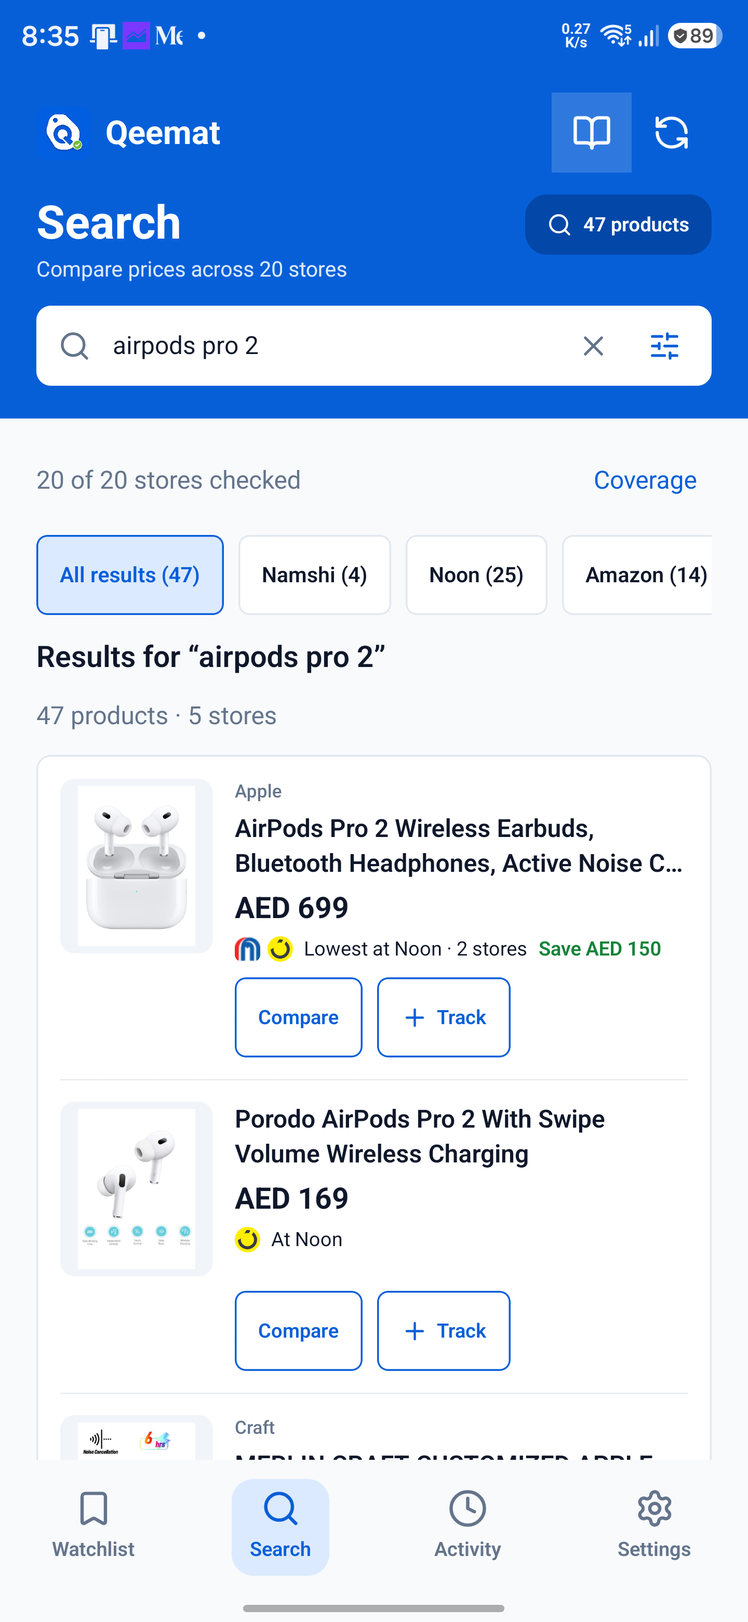
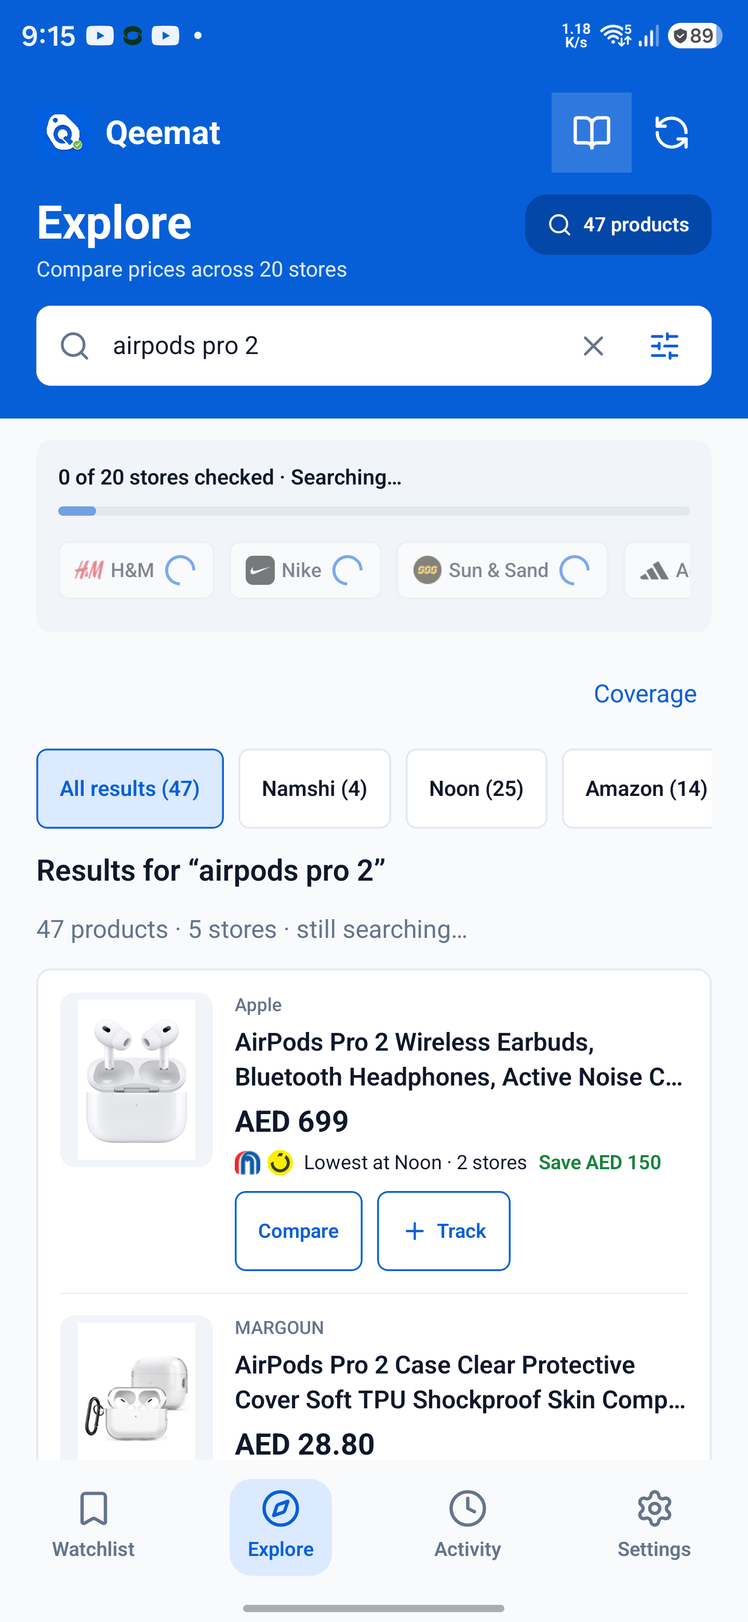
docs: record the Explore experience iteration and evidence

diff --git a/docs/current-state.md b/docs/current-state.md
@@ -47,18 +47,18 @@ The site registry is `src/domain/sites.ts`. It controls hostnames, enabled statu
 - Long-press selection opens a compact floating action dock. Selected products can be moved to a folder, paused/resumed, archived/restored, or deleted in bulk.
 - Product cards show a site icon, local folder when present, price, status, and the most recent price-change direction. OOS cards are dimmed and show an amber out-of-stock badge.
 - The Activity tab is newest-first and groups events into stable local calendar-day sections (`Today`, `Yesterday`, then e.g. `Mon, 10 Nov`) with a per-day change count. Each day is one flat card of compact rows: product thumbnail and title, new price first with the previous price struck through, an explicit delta badge (for example `+AED 39` or `−AED 250`), then retailer · source · time as muted metadata. Price rises render red and drops green across the app. Out-of-stock and back-in-stock transitions keep their state text, first observations read “Started tracking” with a `New` badge, existing products open their detail screen, and deleted products render a non-tappable “Product removed” row. Day headers are accessibility headings and each row has a descriptive accessibility label.
-- `Watchlist` is the opening tab; `Search` is the cross-store comparison tab. The Search feed is ordered by a watchlist-derived taste profile built from active tracked products: inferred categories, brands, distinctive title keywords and typical price bands. Each matching grouped row shows one honest reason such as “Because you track running shoes”, “More from Nike” or “You track this at Noon”; with no watchlist signal the feed keeps its existing launch rotation. The dead personalization quiz UI is removed; saved discovery preferences now only provide dismissal state. Users can browse departments, stores and store categories, filter by department/store/brand/maximum price in a bottom sheet, and see source coverage. The grouped feed shows 12 rows initially and grows by 12 on Show more.
-- Retailer listings of the same product are clubbed locally into one item using conservative title inference: brand must match (or be a token-prefix extension such as adidas / adidas originals), the canonical product type must match, numeric model/pack tokens must be exactly equal, and the remaining signature tokens must be strongly similar. There is no cross-retailer product id, so different model years or colourways can still be missed or (less often) clubbed. Each retailer contributes one offer. A group claims a “Lowest at X” price only when at least two offers are comparable: a defined single price, in stock, same currency and same pack/weight basis. Out-of-stock and “From” range offers stay visible but cannot win the comparison. The compare sheet shows each retailer's own title, price, availability, previous observed price and check age, plus the saving between comparable offers. A group-level previous best price is only shown when every compared offer had a previous observation.
-- When a grouped item matches an active tracked product (exact URL first, then conservative brand+signature matching), the row and compare sheet annotate it with “You track this at <store>” and can open that tracker. The annotation is display-only; tracking a source still verifies the product page and variant before saving.
-- Search keeps its screen state while switching between tabs and also after opening a product or the Add flow, because the tab stack stays mounted. Its default feed rotates the first group of products only when no watchlist signal can personalise it; search results and explicitly filtered views keep their existing query/filter order. Listing cards show a previous price comparison only when the price changes, and missing or failed listing images fall back to a neutral placeholder.
+- `Watchlist` is the opening tab; `Explore` is the cross-store comparison tab (route id `opportunities`). The Explore feed is ordered by a watchlist-derived taste profile built from active tracked products: inferred categories, brands, distinctive title keywords and typical price bands. Each matching grouped row shows one honest reason such as “Because you track running shoes”, “More from Nike” or “You track this at Noon”; with no watchlist signal the feed keeps its existing launch rotation. Items already on the watchlist are hidden from Explore unless a different retailer offers a genuinely cheaper comparable price, in which case the row shows the saving against the tracked price. The dead personalization quiz UI is removed; saved discovery preferences now only provide dismissal state. Users can browse departments, stores and store categories, filter by department/store/brand/maximum price in a bottom sheet, and see source coverage. The feed loads 12 grouped rows initially and continues automatically near the bottom; there are no Show more/Load more buttons. Visited department/store scopes are cached in memory for 24 hours, matching the retailer cache, so switching back to a previously opened department is immediate.
+- Retailer listings of the same product are clubbed locally into one item using conservative title inference: brand must match (or be a token-prefix extension such as adidas / adidas originals), the canonical product type must match where stated, numeric model numbers must match, capacity/pack tokens must be exactly equal, and alphanumeric model codes may match by containment for retailer SKU suffixes. There is no cross-retailer product id, so different model years or colourways can still be missed or (less often) clubbed. Each retailer contributes one offer. A group claims a “Lowest at X” price only when at least two offers are comparable: a defined single price, in stock, same currency and same pack/weight basis. Out-of-stock and “From” range offers stay visible but cannot win the comparison. The compare sheet lists stores lowest price first and shows each retailer's own title, price, availability, previous observed price and check age, plus the saving between comparable offers. A group-level previous best price is only shown when every compared offer had a previous observation.
+- When a grouped item matches an active tracked product (exact URL first, then conservative brand+signature matching), the feed only keeps it if another retailer is cheaper; the row then shows “On your watchlist” and the saving against the tracked price, and the compare sheet shows the tracker price and saving. In search results the tracked annotation is always shown because the search was explicit. The annotation is display-only; tracking a source still verifies the product page and variant before saving.
+- Explore keeps its screen state while switching between tabs and also after opening a product or the Add flow, because the tab stack stays mounted. Its default feed rotates the first group of products only when no watchlist signal can personalise it; search results and explicitly filtered views keep their query/filter order. Search results are re-ordered within each textual match grade so items available from more retailers rise toward the top, while exact named-product matches stay above weaker matches and compatible accessories are never promoted by store count. Reaching the bottom continues automatically: already-fetched groups are revealed first, then the next retailer page/collection batch is fetched, with a loading row instead of a button. Listing cards show a previous price comparison only when the price changes, and missing or failed listing images fall back to a neutral placeholder.
 - Tracked products retain available retailer-provided category paths, product types and selected attributes separately from shopper-selected categories. Product details show the captured information; existing products acquire it on their next successful check. Fields vary by page and retailer, and an omitted field does not erase previously captured metadata. See the [product metadata source review](product-metadata-audit.md) for retailer-specific evidence and gaps.
-- The department browser exposes 4,517 mapped listings across all 19 retailers. It offers searchable Departments and Stores views, compact department groups and store-specific categories; source URLs, breadcrumbs and fetch status are available under Source details. Selecting an interest, retailer or listing updates the same feed and fetches matching pages. An initial batch requests at most 24 listings; Load more listings adds another batch. Show more reveals another 12 already-fetched grouped rows. Each fetched page still has a 100-product extraction ceiling and retailer pagination is not automatic.
+- The department browser exposes 4,517 mapped listings across all 19 retailers. It offers searchable Departments and Stores views, compact department groups and store-specific categories; source URLs, breadcrumbs and fetch status are available under Source details. Selecting an interest, retailer or listing updates the same feed and fetches matching pages. An initial batch requests at most 24 listings and the Explore feed reveals 12 grouped rows at a time; reaching the bottom continues automatically with the next already-fetched rows, then the next collection batch. Each fetched page still has a 100-product extraction ceiling and retailer pagination is not automatic.
 - Source mapping is broader than validated extraction. The expansion's desktop sample initially extracted 47/72 pages; subsequent parser repairs recovered Amazon book and baby cards. BFL rendered products and size choices now parse from browser markup; full physical-Android verification is deferred by the user until the final pass. See the [category audit](discovery-category-audit.md) for per-retailer evidence and limits. Earlier Android results in [source URLs and limits](discovery-sources.md) refer to the previous selected collections.
-- Discovery caches listings for 24 hours and retries failed sources after 24 hours or an explicit refresh. Refresh applies to the current scope, not every mapped listing. Fetched listings keep up to 30 local observations each; listings that disappear from a source are not individually checked. Cross-retailer grouped prices only compare offers with the same currency and pack/weight basis; detail observations require matching listing identity, currency, price basis and range status. Product previews show recent listing history separately from variant-specific watchlist snapshots. A separate Android WorkManager job rotates through small batches of previously discovered collection and search sources approximately every six hours when network and system conditions permit. Carrefour weighted groceries normalize default-weight prices to AED/kg; final weight may affect checkout totals. A changed pack size or price basis preserves tracker history and records a failed check rather than sending a misleading price alert.
-- Search store chips appear only for retailers with visible grouped matches and count grouped products, not listings. A store chip resets to all results if its store loses its last match during refresh or dismissal. The Search filter sheet offers departments, stores, brands and a maximum price; active filters are summarised above the feed and can be cleared. All departments opens the full interest, retailer and listing browser. Fresh food remains separate from pantry, beverages and frozen food. Refresh and source coverage live in the blue Search banner. Saved quiz interests and budgets no longer filter the feed or search.
-- Cancelled discovery loads do not create cached failures. Search and discovery keep separate display limits so clearing search returns to the expanded feed and its scroll position. Dismissing a grouped product records feedback for every offer's listing identity, so it stays hidden regardless of the source shown; dismissal feedback for Decathlon and Salomon keeps its shared product-path identity across search and collection listings, and older numeric feedback is reconciled when its corresponding cached product is available.
+- Discovery caches listings for 24 hours and retries failed sources after 24 hours or an explicit refresh. Refresh applies to the current scope, not every mapped listing. The app also keeps visited department/store scopes in memory for 24 hours, so returning to a previously opened scope is immediate without another load. Fetched listings keep up to 30 local observations each; listings that disappear from a source are not individually checked. Cross-retailer grouped prices only compare offers with the same currency and pack/weight basis; detail observations require matching listing identity, currency, price basis and range status. Product previews show recent listing history separately from variant-specific watchlist snapshots. A separate Android WorkManager job rotates through small batches of previously discovered collection and search sources approximately every six hours when network and system conditions permit. Carrefour weighted groceries normalize default-weight prices to AED/kg; final weight may affect checkout totals. A changed pack size or price basis preserves tracker history and records a failed check rather than sending a misleading price alert.
+- Explore store chips appear only for retailers with visible grouped matches and count grouped products, not listings. A store chip resets to all results if its store loses its last match during refresh or dismissal. The Explore filter sheet offers departments, stores, brands and a maximum price; active filters are summarised above the feed and can be cleared. All departments opens the full interest, retailer and listing browser. Fresh food remains separate from pantry, beverages and frozen food. Refresh and source coverage live in the blue Explore banner. Saved quiz interests and budgets no longer filter the feed or search.
+- Cancelled discovery loads do not create cached failures. Explore and search results keep separate display limits so clearing a search returns to the expanded feed and its scroll position. Dismissing a grouped product records feedback for every offer's listing identity, so it stays hidden regardless of the source shown; dismissal feedback for Decathlon and Salomon keeps its shared product-path identity across search and collection listings, and older numeric feedback is reconciled when its corresponding cached product is available.
 - Track price verifies the product page, saves existing defaults, and offers target settings afterward. Size/colour selection uses a sheet over the feed and preserves the exact source variant; existing trackers open their details. Secondary product actions live in the product-details modal and the cross-store compare sheet.
-- Product-name search runs in the same Search feed across 20 storefronts (27 weighted source requests); Sharaf DG is excluded until its search grid can be verified. Searches submit explicitly, ignore quiz interests/budgets, stream matching results, expose per-store status and retain cached matches on failures. Ounass and Level Shoes search women, men and kids separately. Query/model matching removes unrelated fallbacks and ranks named products ahead of compatible accessories across retailers; Amazon search excludes advertising cards. Results are then clubbed across stores and the heading counts grouped products and retailers. Clearing search restores the feed, its filters and scroll position. Up to eight queries are cached locally with a 15-minute reuse window. Pagination follows verified source cursors where available; several providers currently supply only their first response. The existing search smoke test on Samsung SM-S928B (28 October) checked 18 stores and showed 196 listing matches across nine retailers; grouped counts and cross-store comparison are validated separately. This is not exhaustive per-source, offline or tracking/variant QA. See [search evidence and limits](discovery-search-feasibility.md).
+- Product-name search runs in the Explore tab across 20 storefronts (27 weighted source requests); Sharaf DG is excluded until its search grid can be verified. Searches submit explicitly, ignore quiz interests/budgets, stream matching results, show an animated store-checking progress card, expose per-store coverage and retain cached matches on failures. Cached matches stay visible while stores revalidate instead of briefly showing zero. Ounass and Level Shoes search women, men and kids separately. Query/model matching removes unrelated fallbacks and ranks named products ahead of compatible accessories across retailers; results are then clubbed across stores, promoted within the same textual match grade when more retailers carry the item, and the heading counts grouped products and retailers. Reaching the bottom loads the next search page automatically. Clearing search restores the feed, its filters and scroll position. Up to eight queries are cached locally with a 15-minute reuse window. Pagination follows verified source cursors where available; several providers currently supply only their first response. The existing search smoke test on Samsung SM-S928B (28 October) checked 18 stores and showed 196 listing matches across nine retailers; grouped counts and cross-store comparison are validated separately. This is not exhaustive per-source, offline or tracking/variant QA. See [search evidence and limits](discovery-search-feasibility.md).
 
 ### Add flow and product detail
 
@@ -129,10 +129,12 @@ WorkManager is best effort. Battery saver, device-vendor restrictions, connectiv
 - `src/domain/parser.ts` - fetch and site parsers.
 - `src/domain/sites.ts` - site registry and URL cleaning.
 - `src/domain/checker.ts` - check orchestration and alert rules.
-- `src/components/` - reusable UI, including `AppText`, `AppTextInput`, `Surface`, `ProductCard`, `SearchProductRow`, `SearchCompareSheet`, `SearchFilterSheet`, and `SiteIcon`.
+- `src/components/` - reusable UI, including `AppText`, `AppTextInput`, `Surface`, `ProductCard`, `SearchProductRow`, `SearchCompareSheet`, `SearchFilterSheet`, `SearchProgress`, and `SiteIcon`.
 - `src/domain/productTokens.ts` - shared listing title normalizer for grouping and watchlist relevance.
 - `src/domain/discoveryGroups.ts` - conservative cross-retailer grouping, comparable best offer, price spread and tracked-product matching.
 - `src/domain/discoveryRanking.ts` - watchlist taste profile, relevance reasons and diversity-aware feed ranking.
+- `src/domain/discoverySearchRanking.ts` - multi-source promotion within textual match grades for search results.
+- `src/domain/discoveryFeed.ts` - hide watchlist copies from Explore unless another retailer is cheaper.
 - `src/theme/layout.ts` - compact layout helper.
 - `android/app/src/main/java/com/qeemat/` - Android WorkManager, notifications, and WebView modules.
 - `docs/bfl-integration.md` - BFL's current rendered parser and historical fetch limitations.
@@ -157,5 +159,5 @@ For a terminal Android build, use JDK 17+ and make `adb` available from Android 
 - Price-drop thresholds and back-in-stock alerts are set per tracker.
 - Folder-based organisation, watchlist filtering/sorting, archive, and compact bulk actions support larger watchlists.
 - Product detail includes local price insights and an interactive price-history chart.
-- The local-only Search tab derives a taste profile from active watchlist products, clubs conservative cross-retailer matches into one compared item with a best source, shows honest relevance and tracked-product annotations, and lets users track any source without pasting a URL. Search results use the same grouped comparison rows. See [the Search tab review](search-tab-review.md).
+- The local-only Explore tab derives a taste profile from active watchlist products, clubs conservative cross-retailer matches into one compared item with a best source, hides watchlist copies unless another retailer is cheaper, shows honest relevance/tracked annotations, and lets users track any source without pasting a URL. Search results use the same grouped comparison rows with multi-source promotion, an animated store-checking progress card while stores respond, and automatic continuation at the bottom. See [the Search tab review](search-tab-review.md).
 - Salomon GCC and The Deal extend retailer support; The Deal saves only a response-verified color/size combination.

diff --git a/DESIGN.md b/DESIGN.md
@@ -99,7 +99,7 @@ Page background is `colors.background` (#F8FAFC); inline cards are flat white (`
 
 - **Shipped:** flat Watchlist rows, Settings cards, product-detail insight cards, empty-state cards, the Add-product preview card and the onboarding card; overlay sheets and the floating bulk action bar keep the `shadow` token for genuine layering.
 - **Shipped (14 November 2026):** `Surface` in `src/components/Surface.tsx` provides the shared flat-surface role — `card` (white, 1px border), `muted` (surfaceMuted inset), `accent` (blueSoft) and `plain`, with token-based padding and radius. Search discovery/product cards, the discovery setup/empty cards, Watchlist/Activity empty states and product-detail insight cards render through it. Remaining local card styles visually match the role and can migrate without changing their treatment.
-- **Shipped (14 November 2026, Search redesign):** the Search tab now uses the Watchlist banner/row language: a blue banner with the Qeemat lockup, product-count pill, permanent cross-store search field and coverage/refresh actions; a compact department rail; flat grouped-product rows with the shared card border rhythm; a compare sheet built from `Surface` cards; and a bottom filter sheet matching the Watchlist controls sheet.
+- **Shipped (14 November 2026, Explore redesign):** the Explore tab (formerly Search) now uses the Watchlist banner/row language: a blue banner with the Qeemat lockup, product-count/searching pill, permanent cross-store search field and coverage/refresh actions; a compact department rail; flat grouped-product rows with the shared card border rhythm; an animated store-checking progress card while a search runs; a compare sheet built from `Surface` cards with store offers listed lowest price first; and a bottom filter sheet matching the Watchlist controls sheet. The feed and results continue automatically near the bottom; there are no separate Show more/Load more buttons.
 - **Intended:** no further inline shadows; future elevated elements should be limited to floating layers.
 
 ## Actions
@@ -138,8 +138,8 @@ Treat check freshness, price direction, availability and failure as separate sig
 - **Tracked-product cards:** `ProductCard` presents the product, retailer, selected variant, current or last-known price, price change and check state where available. **Shipped:** compact, flat divided rows without the shared shadow; the change badge reflects the most recent actual price change and keeps showing through later unchanged checks (its accessibility label includes when the change happened). Improve density without hiding variant or failure context.
 - **Floating add button:** **Shipped:** Watchlist uses a circular add button floating over the list (`12aaa66`). The user explicitly chose it over a separate white dock; it can cover list content, and that overlap is an accepted tradeoff, not a defect to fix by restoring a dock. Keep enough bottom scroll padding for the final product to be scrolled clear.
 - **Navigation:** the app has a manual Android tab and route stack. Preserve established navigation and Android back behavior.
-- **Search cards:** listing cards serve comparison, while Watchlist cards serve monitoring. **Shipped (14 November 2026):** Search is a cross-store comparison surface. A watchlist-derived taste profile (inferred categories, brands, title keywords and price bands) orders the feed and each match shows one honest reason; the dead personalization quiz is removed. Retailer listings are clubbed into one item only when brand, product type, numeric model/pack tokens and a distinctive title signature match. A grouped row shows the lowest comparable price, price direction, store icons, the number of stores and the saving, with compact Compare/Track actions. The compare sheet lists each retailer's own title and price, excludes out-of-stock and "From" range offers from the lowest-price claim, and only compares same-currency, same-price-basis offers. Search results use the same grouped rows and count products and stores instead of listings. A fuller Search hierarchy pass is no longer open.
-- **Task-first flows:** **Shipped (13 November 2026):** Add keeps **Find product** directly after the URL field and collapses the supported-store list behind a disclosure; Settings keeps notifications, battery and background time first and collapses run diagnostics and the supported-store list; tracking settings exposes a per-product **Active** switch, and the tab stack stays mounted so Watchlist and Search keep their state after opening a product or the Add flow.
+- **Explore cards:** listing cards serve comparison, while Watchlist cards serve monitoring. **Shipped (14 November 2026):** Explore is a cross-store comparison surface. A watchlist-derived taste profile (inferred categories, brands, title keywords and price bands) orders the feed and each match shows one honest reason; the dead personalization quiz is removed. Items already on the watchlist are hidden unless another retailer is cheaper, and the row then shows the saving against the tracked price. Retailer listings are clubbed into one item only when brand, product type, numeric model/pack tokens and a distinctive title signature match. A grouped row shows the lowest comparable price, price direction, store icons, the number of stores and the saving, with compact Compare/Track actions. The compare sheet lists each retailer's own title and price lowest first, excludes out-of-stock and "From" range offers from the lowest-price claim, and only compares same-currency, same-price-basis offers. Search results use the same grouped rows, count products and stores instead of listings, promote multi-store items within the same textual match grade, and show an animated per-store progress card while stores respond. Visit-scoped listings are cached so returning to a department is immediate. A fuller Explore hierarchy pass is no longer open.
+- **Task-first flows:** **Shipped (13 November 2026):** Add keeps **Find product** directly after the URL field and collapses the supported-store list behind a disclosure; Settings keeps notifications, battery and background time first and collapses run diagnostics and the supported-store list; tracking settings exposes a per-product **Active** switch, and the tab stack stays mounted so Watchlist and Explore keep their state after opening a product or the Add flow.
 - **Product detail:** **Shipped (14 November 2026):** matches the Watchlist language — a blue banner with back/copy/settings actions, then a compact summary card (image, 2-line title, price with direction badge, retailer, variant/folder and check status). Price insights are one flat card with divided Lowest/Highest/Average rows; **About this item** is collapsed behind a summary disclosure; price snapshots show the three most recent groups with **Show all**, identical consecutive failures collapse behind a count, the chart plots only actual price-change points, marks the high and low with dashed guide lines and on-chart high/mid/low price labels, and supports horizontal drag-to-scrub selection; detail also has separate Copy link and native Share actions. Snapshots color a lower price green and a higher price red. Further chart hierarchy refinement is **intended**.
 
 ## Accessibility

diff --git a/docs/search-tab-review.md b/docs/search-tab-review.md
@@ -161,3 +161,17 @@ A bottom sheet matching the Watchlist **Filter & sort** interaction: departments
 - Tracked-product matching is heuristic unless the exact URL is present; the annotation is a convenience, not a price guarantee.
 - Large catalogues (hundreds of listings) make grouping and ranking CPU work on device; the grouping is bucketed and deterministic, but the first load can be slower with a large cached catalogue.
 - Amazon search cards frequently omit the brand field even when the title starts with it. The grouping now infers a leading brand conservatively, but cards that neither expose a brand nor lead with one remain ungrouped.
+
+## 9. Follow-up iteration: Explore experience (14 November 2026)
+
+After the first device review the tab was renamed **Explore** (bottom tab, screen heading and docs) and the following gaps raised in the next review were addressed:
+
+- **First-search feedback.** A first search no longer shows `0 results` while stores respond. The banner shows a spinner and “Searching…”, the results area says “Checking 20 stores. Matches appear here as each store responds.”, and an animated `SearchProgress` card shows a progress bar plus per-store status pills (checking, ready with count, empty, unavailable). Cached matches stay visible while stores revalidate.
+- **Multi-source promotion.** Search groups are ranked within each textual match grade so items available from more retailers rise toward the top; exact named-product matches stay above weaker matches, and accessories (cases, tips, insoles) never receive the multi-store boost unless the shopper searched for the accessory.
+- **Automatic continuation.** The separate Show more and Load more search/listings buttons were removed. Both the Explore feed and search results continue automatically near the bottom: already-fetched rows are revealed first, then the next search page or retailer collection batch is requested. A compact loading row replaces the buttons.
+- **Watchlist duplicates.** A grouped item already matched to an active tracker is hidden from Explore unless a different retailer is cheaper. When it is cheaper, the row shows the saving against the tracked price; the compare sheet also shows the tracked price and saving.
+- **Price-sorted compare sheet.** Store offers are listed lowest price first, with a “Lowest price first” caption; the best comparable offer remains highlighted. The tracked-price saving is shown above the offer list.
+- **Faster department switching.** Visited department/store scopes are cached in memory for 24 hours. Returning to a previously opened department uses the cached products immediately, and narrow department changes do not refetch unless the scope is new. A scope change now shows a loading state instead of a transient “0 products” empty state.
+- **Explore naming.** The tab, heading, accessibility copy and documentation now use Explore; the internal `opportunities` route id is unchanged for compatibility.
+
+Verification on the connected SM-S928B: [Explore feed](assets/search-redesign-2026-11-14/search-feed.png), [first-search progress](assets/search-redesign-2026-11-14/search-progress.png), [grouped results while checking](assets/search-redesign-2026-11-14/search-grouped-results.png), [lowest-price-first compare](assets/search-redesign-2026-11-14/search-compare-sheet.png). Automated gates: typecheck clean; ESLint 0 errors (one existing inline-style warning); Jest 61 suites / 570 passed / 1 skipped. Not covered by this pass: timed device verification of the department cache, tracking a grouped offer, TalkBack/large-text/landscape on the new progress card, and the infinite-scroll experience on slow networks.

diff --git a/design-qa.md b/design-qa.md
@@ -187,3 +187,19 @@ The `feat/search-tab-redesign` arm64 release was installed over the existing app
 - **Not verified in this pass.** Tracking from a grouped row (page verification + variant selection), TalkBack order/labels, landscape, larger font scales on the new rows/sheets, every retailer/query combination, and background freshness guarantees. Grouping remains a conservative local inference over retailer titles and can still miss or mis-club edge cases; the compare sheet shows each retailer’s own title precisely so the shopper can verify the offer. The device screenshots are evidence of these specific journeys only.
 
 final result: passed with limits
+## Explore experience iteration — device verification (14 November 2026)
+
+Final result: **passed for the implemented scope**, with the limits below.
+
+This follows the Search/Explore review feedback: first-search feedback, multi-source promotion, automatic continuation, watchlist duplicate suppression, price-sorted compare rows, faster department switching, and renaming the tab to Explore. The arm64 release was installed over the existing app on the Samsung SM-S928B and the journeys below were inspected.
+
+- **Explore feed.** The bottom tab and screen heading now read Explore. The feed shows watchlist-relevance reasons, and watchlist items only appear when another retailer is cheaper. [Explore feed](assets/search-redesign-2026-11-14/search-feed.png).
+- **First search feedback.** Submitting `kindle paperwhite` immediately showed a “Searching…” pill, an animated “Starting checks across 20 stores…” progress card, and “Checking 20 stores. Matches appear here as each store responds.” instead of zero results. [First-search progress](assets/search-redesign-2026-11-14/search-progress.png).
+- **Per-store progress.** While results streamed, the progress card showed an animated bar and per-store pills with checking/ready/empty states; cached matches stayed visible. [Grouped results while checking](assets/search-redesign-2026-11-14/search-grouped-results.png). A cached `airpods pro 2` search kept its grouped Noon + Carrefour row at the top with “Lowest at Noon · 2 stores · Save AED 150” while stores revalidated.
+- **Automatic continuation.** Scrolling to the bottom showed a compact “Checking more stores…” row and loaded further groups; the previous Show more and Load more buttons were absent.
+- **Compare sheet.** Store offers are listed lowest price first with a “Lowest price first” caption; the best comparable offer is highlighted. [Lowest-price-first compare](assets/search-redesign-2026-11-14/search-compare-sheet.png).
+- **Department switching.** Scope results are cached in memory for 24 hours. The integration test verifies that returning to a previously opened department does not call the catalog loader again; timed device verification of the cache was interrupted by a pull-to-refresh during the manual pass, so treat the device timing as unconfirmed.
+- **Automated gates.** `npm run typecheck` clean; ESLint 0 errors (one existing out-of-stock inline-style warning); Jest 61 suites / 570 passed / 1 skipped.
+- **Not verified in this pass.** Tracking from a grouped row, TalkBack order/labels and large text on the new progress card, landscape, slow-network infinite-scroll behaviour, and cross-device retailer/query coverage. The animated progress card is visual feedback only; it does not claim a store has no matches until that store has responded.
+
+final result: passed with limits

diff --git a/docs/design-handover.md b/docs/design-handover.md
@@ -94,3 +94,7 @@ The project uses React Native + TypeScript, a manual route stack in `App.tsx`, A
 
 - The Search tab was rebuilt on branch `feat/search-tab-redesign` (not merged at the time of writing): a Watchlist-style blue banner, a watchlist-derived relevance feed with honest reasons, conservative cross-retailer clubbing with per-store prices and a best source, tracked-product annotations, a compare sheet, a filter sheet, and grouped search results with accessory-aware ranking. The old discovery quiz UI and grid preview were removed. See [the Search tab review](search-tab-review.md) and the [device evidence](../design-qa.md#search-comparison-redesign--device-verification-14-november-2026).
 - Current gates for that branch: typecheck clean; ESLint 0 errors (one known `react-native/no-inline-styles` warning); Jest 58 suites / 541 passed / 1 skipped. The arm64 release was installed and checked on the Samsung SM-S928B; tracking a grouped offer, TalkBack, landscape and larger font scales on the new surfaces were not part of that pass.
+### Postscript — Explore iteration (14 November 2026, evening)
+
+- The Search tab was renamed **Explore** and its second-pass UX shipped on `feat/search-tab-redesign`: an animated per-store search-progress card instead of a first-search zero state, multi-store promotion within textual match grades, automatic infinite continuation with no Show more/Load more buttons, watchlist duplicates hidden unless another retailer is cheaper, price-sorted compare offers, and a 24-hour in-memory cache for visited department/store scopes.
+- Evidence is in [design-qa.md](../design-qa.md#explore-experience-iteration--device-verification-14-november-2026) and the behavior is documented in [the Search tab review](search-tab-review.md#9-follow-up-iteration-explore-experience-14-november-2026). Current gates: typecheck clean, ESLint 0 errors (one known inline-style warning), Jest 61 suites / 570 passed / 1 skipped.
